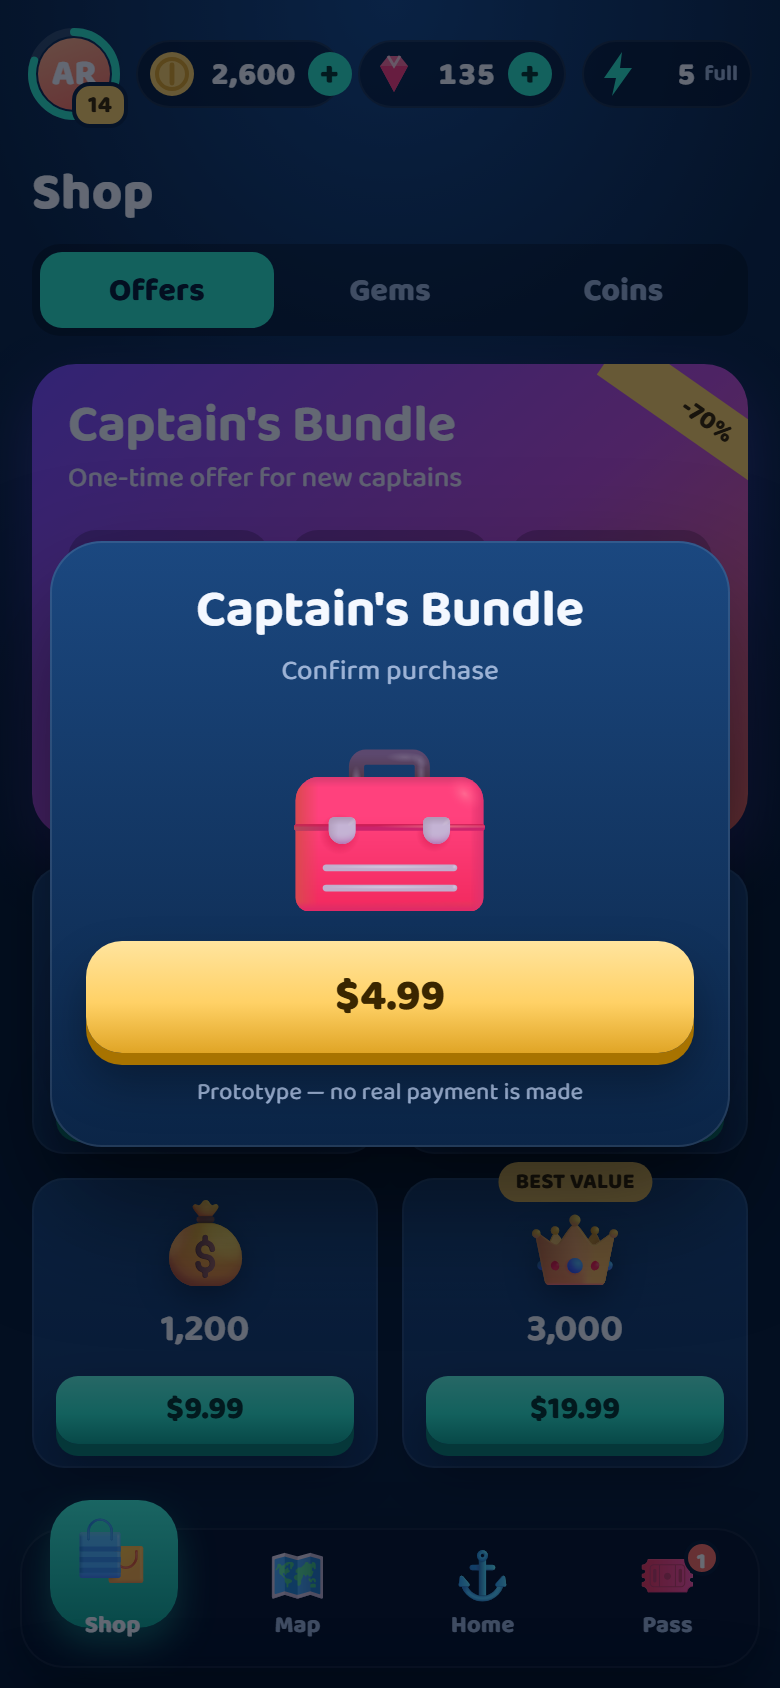
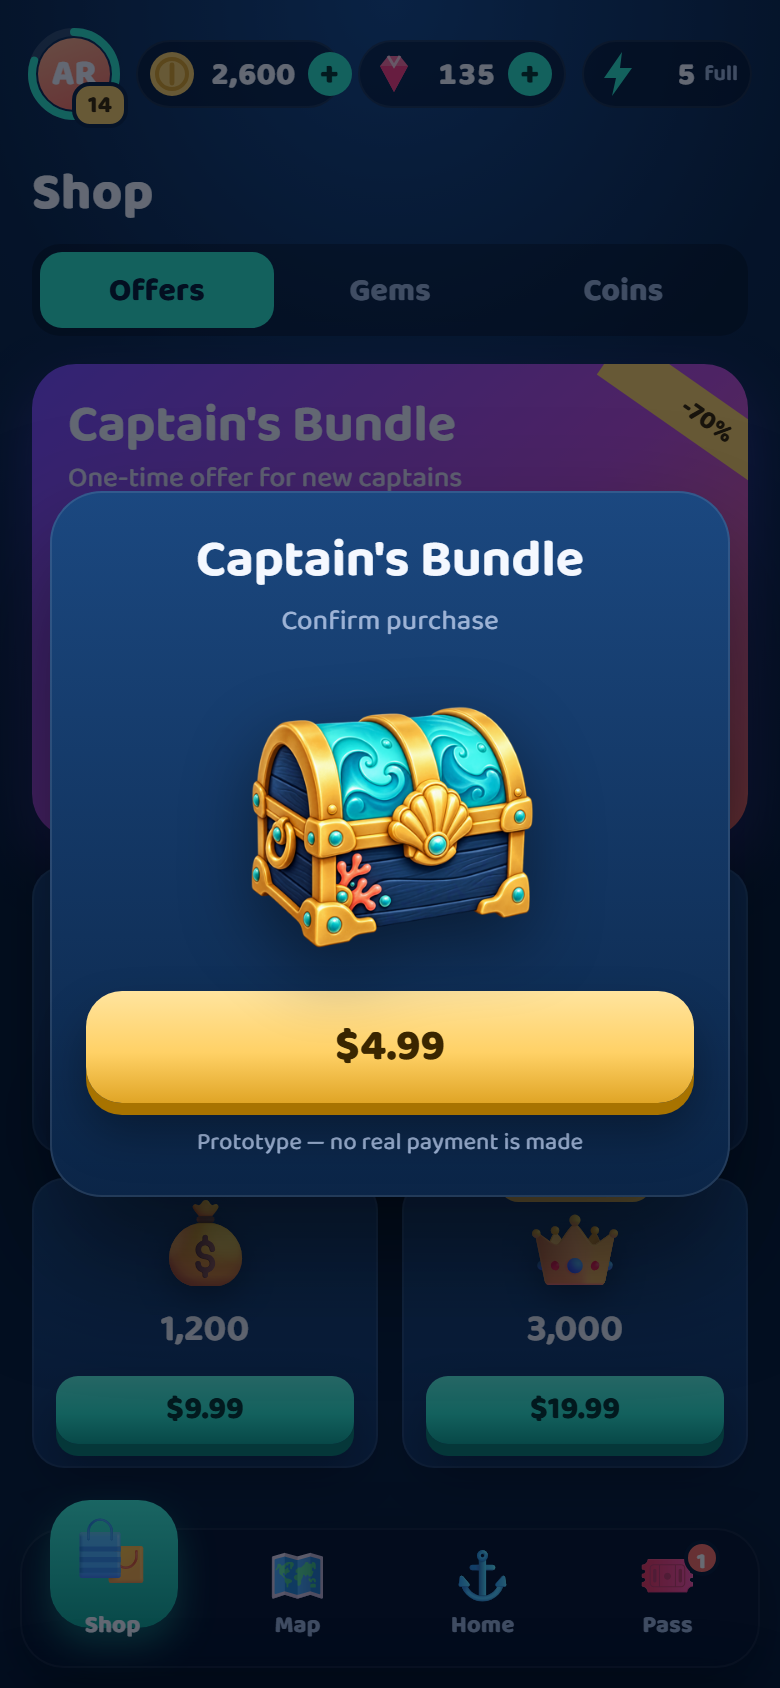
Painted treasure chest in purchase flow

Changed region(s): [[0.0615, 0.2773, 0.9538, 0.7085]]

diff --git a/app.html b/app.html
@@ -214,7 +214,10 @@ h2{margin:6px 0 12px;font-size:26px;line-height:1;font-weight:800;letter-spacing
 canvas#fx{position:absolute;inset:0;width:100%;height:100%;z-index:80;pointer-events:none}
 
 /* ---------- chest ---------- */
-.chest{font-size:96px;display:inline-block;line-height:1;margin:6px 0}
+.chest{position:relative;display:inline-block;width:150px;height:150px;margin:0 0 6px}
+.chest img{position:relative;z-index:1;width:100%;height:100%;object-fit:contain;filter:drop-shadow(0 12px 18px rgba(0,0,0,.45))}
+.chest::after{content:"";position:absolute;inset:-30px;border-radius:50%;background:radial-gradient(circle,rgba(255,209,102,.85),rgba(46,230,201,.25) 45%,transparent 70%);opacity:0;transform:scale(.4);transition:all .5s var(--ease-out)}
+.chest.open::after{opacity:1;transform:scale(1.15)}
 .chest.shake{animation:shake .5s ease-in-out 2}
 @keyframes shake{25%{transform:rotate(-10deg)}75%{transform:rotate(10deg)}}
 .chest.open{animation:pop .5s var(--ease-out)}
@@ -336,7 +339,7 @@ canvas#fx{position:absolute;inset:0;width:100%;height:100%;z-index:80;pointer-ev
   <div class="modal" id="buyModal" role="dialog">
     <h3 id="buyTitle">Captain's Bundle</h3>
     <p>Confirm purchase</p>
-    <div class="chest" id="chest">🧰</div>
+    <div class="chest" id="chest"><img src="art/chest.png" alt="Treasure chest"></div>
     <button class="btn gold wide" id="confirmBuy"><span class="shine"></span><span id="buyPrice">$4.99</span></button>
     <div class="note">Prototype — no real payment is made</div>
   </div>
@@ -576,7 +579,7 @@ $("#goPremium").addEventListener("click", () => openBuy("Premium Pass", "$7.99",
 let onBuy = null;
 function openBuy(title, price, cb) {
   onBuy = cb; $("#buyTitle").textContent = title; $("#buyPrice").textContent = price;
-  $("#chest").className = "chest"; $("#chest").textContent = "🧰";
+  $("#chest").className = "chest";
   $("#scrim").classList.add("on"); $("#buyModal").classList.add("on");
 }
 $("#buyBundle").addEventListener("click", () => openBuy("Captain's Bundle", "$4.99", () => { addGems(500); addCoins(10000); state.energy = 5; $("#energy").textContent = 5; $("#etimer").textContent = "∞"; }));
@@ -588,7 +591,7 @@ $("#confirmBuy").addEventListener("click", () => {
   btn.classList.add("pressed"); setTimeout(() => btn.classList.remove("pressed"), 150);
   chest.classList.add("shake"); vibrate(40);
   setTimeout(() => {
-    chest.classList.remove("shake"); chest.classList.add("open"); chest.textContent = "✨"; confetti(60);
+    chest.classList.remove("shake"); chest.classList.add("open"); confetti(60);
     flyIcons("💎", chest, "#r-gems", 8, () => { onBuy && onBuy(); onBuy = null; });
     setTimeout(closeOverlays, 900);
   }, 1000);
